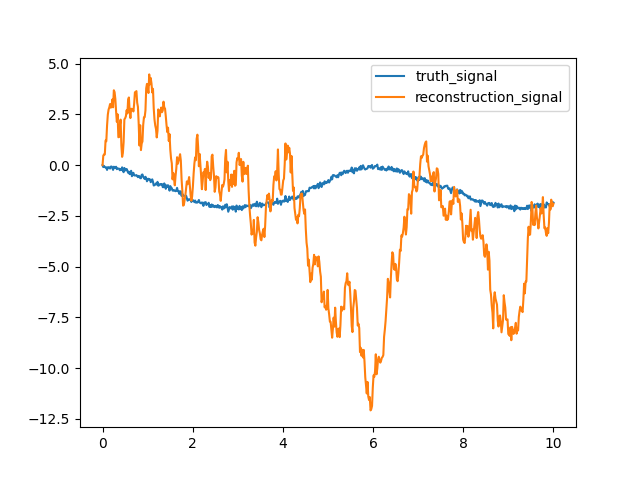
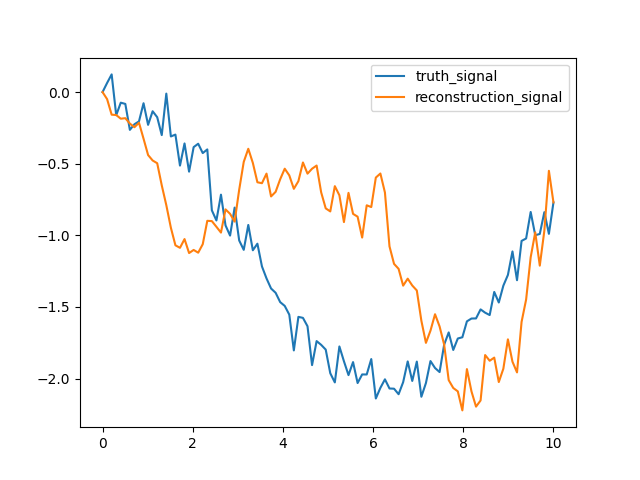
A_init added

diff --git a/Chapter5/GAN/gan_test_inv.py b/Chapter5/GAN/gan_test_inv.py
@@ -39,6 +39,7 @@ def test_inverse_GAN(size_ts, multichan, time_add=True):
     generator.load_state_dict(torch.load('models_saved/wgan_gp/cosine/G_model.pt'), strict=False)
     latent_space_samples = torch.randn((batch_size, input_dim))
     sign = generator(latent_space_samples) * std + mean
+    latent_space_samples = torch.randn((batch_size, input_dim))
 
     print(signature, sign)
 
@@ -49,7 +50,7 @@ def test_inverse_GAN(size_ts, multichan, time_add=True):
     size_base = len_base+1
 
     #Number of iteration for optimisation
-    limits = 20000
+    limits = 30000
     #Learning rate (there is a patience schedule)
     lrs = 1e-2
 
@@ -63,65 +64,68 @@ def test_inverse_GAN(size_ts, multichan, time_add=True):
     #Available base: "PwLinear", "BSpline", "Fourier"
     base_name = "PwLinear"
 
-    
-    SA = SeigalAlgo(size_ts, len_base, chan, real_chan, depth, n_recons, size_base, time_chan=True, sig_TS=sign[0].unsqueeze(0))
-    base = SA.define_base(base_name).flip([-2,-1])
-    # Retrieve A from depth 3 signature. "par" is deprecated for the moment. If cuda is available, compute automatically from cuda.
-    A = SA.retrieve_coeff_base(base, par = 1, limits = limits, lrs = lrs, opt = optim, params = params)
-    # Recompose signal from A
-    recomposed_signal = np.matmul(A.detach().numpy(),base[0].detach().numpy().T)
-    np.save('Inv_results/gan_A_cos.npy', recomposed_signal)
+    A_init = np.load('Inv_results/original_A_cos_1.npy')
+
+    #SA = SeigalAlgo(size_ts, len_base, chan, real_chan, depth, n_recons, size_base, time_chan=True, sig_TS=sign[0].unsqueeze(0))
+    #base = SA.define_base(base_name).flip([-2,-1])
+    ## Retrieve A from depth 3 signature. "par" is deprecated for the moment. If cuda is available, compute automatically from cuda.
+    #A = SA.retrieve_coeff_base(base, par = 1, limits = limits, lrs = lrs, opt = optim, params = params)
+    #torch.save(A, 'Inv_results/gan_A_cos_1.pt')
+    ## Recompose signal from A
+    #recomposed_signal = np.matmul(A.detach().numpy(),base[0].detach().numpy().T)
 
     SA = SeigalAlgo(size_ts, len_base, chan, real_chan, depth, n_recons, size_base, time_chan=True, sig_TS=signature)
     base = SA.define_base(base_name).flip([-2,-1])
     # Retrieve A from depth 3 signature. "par" is deprecated for the moment. If cuda is available, compute automatically from cuda.
     A_original = SA.retrieve_coeff_base(base, par = 1, limits = limits, lrs = lrs, opt = optim, params = params)
+    torch.save(A_original, 'Inv_results/original_A_cos.pt')
     # Recompose signal from A
     recomposed_signal_original = np.matmul(A_original.detach().numpy(),base[0].detach().numpy().T)
-    np.save('Inv_results/original_A_cos.npy', recomposed_signal_original)
+    
     #See the result
 
-    if not multichan:
-        if time_add:
-            i = 1
-        else:
-            i=0
-        x_axis = np.linspace(0,10,num = recomposed_signal_original.shape[1])
-        plt.plot(x_axis,traj-traj[0])
-        plt.plot(x_axis,np.flip(recomposed_signal_original[i+1,:]))
-        #plt.plot(x_axis,np.flip(recomposed_signal[i+1,:]))
-        plt.legend(['truth_signal','reconstruction_signal','GAN_recon_signal'])
-        plt.savefig("Inv_results/reconstruction_cos_pw.png")
-        plt.show()
-        print(np.mean(traj-traj[0]-recomposed_signal_original[i+1,:]))
-
-        plt.plot(x_axis,L)
-        plt.plot(x_axis,np.flip(recomposed_signal_original[1,:]))
-        plt.legend(['truth_length','reconstruction_length'])
-        plt.show()
-
-    else:
-        x_axis = np.linspace(0,1,num = recomposed_signal.shape[1])
-        signal = traj
-        for i in range(traj.shape[0]):
-            plt.plot(x_axis,signal[i])
-            plt.plot(x_axis,np.flip(recomposed_signal[2+i,:]))
-            plt.legend(['truth_signal','reconstruction_signal'])
-            plt.title(f"channel {i+1}")
-            plt.savefig("Inv_results/reconstruction_gan_cos_comp.png")
-            plt.show()
-
-        print(np.mean(traj-traj[:,0,None]-recomposed_signal[2:,:]))
-
-        plt.plot(L)
-        plt.plot(np.flip(recomposed_signal[1,:]))
-        plt.legend(['truth_length','reconstruction_length'])
-        plt.show()
-
-        plt.plot(times)
-        plt.plot(np.flip(recomposed_signal[0,:]))
-        plt.legend(['truth_times','reconstruction_times'])
-        plt.show()
-
+    #if not multichan:
+    #    if time_add:
+    #        i = 1
+    #    else:
+    #        i=0
+    #    x_axis = np.linspace(0,10,num = recomposed_signal.shape[1])
+    #    plt.plot(x_axis,traj-traj[0])
+    #    plt.plot(x_axis,np.flip(recomposed_signal[i+1,:]))
+    #    #plt.plot(x_axis,np.flip(recomposed_signal_original[i+1,:]))
+    #    plt.legend(['truth_signal','GAN_recon_signal','reconstruction_signal'])
+    #    plt.savefig("Inv_results/reconstruction_cos_pw1.png")
+    #    plt.show()
+    #    print(np.mean(traj-traj[0]-recomposed_signal[i+1,:]))
+#
+    #    plt.plot(x_axis,L)
+    #    plt.plot(x_axis,np.flip(recomposed_signal[1,:]))
+    #    #plt.plot(x_axis,np.flip(recomposed_signal_original[1,:]))
+    #    plt.legend(['truth_length','GAN_length','reconstruction_length'])
+    #    plt.show()
+#
+    #else:
+    #    x_axis = np.linspace(0,1,num = recomposed_signal.shape[1])
+    #    signal = traj
+    #    for i in range(traj.shape[0]):
+    #        plt.plot(x_axis,signal[i])
+    #        plt.plot(x_axis,np.flip(recomposed_signal[2+i,:]))
+    #        plt.legend(['truth_signal','reconstruction_signal'])
+    #        plt.title(f"channel {i+1}")
+    #        plt.savefig("Inv_results/reconstruction_gan_cos_comp.png")
+    #        plt.show()
+#
+    #    print(np.mean(traj-traj[:,0,None]-recomposed_signal[2:,:]))
+#
+    #    plt.plot(L)
+    #    plt.plot(np.flip(recomposed_signal[1,:]))
+    #    plt.legend(['truth_length','reconstruction_length'])
+    #    plt.show()
+#
+    #    plt.plot(times)
+    #    plt.plot(np.flip(recomposed_signal[0,:]))
+    #    plt.legend(['truth_times','reconstruction_times'])
+    #    plt.show()
+#
 if __name__=="__main__":
     test_inverse_GAN(size_ts, False, time_add=True)

diff --git a/Chapter5/GAN/Algo_Seigal_inverse_path2.py b/Chapter5/GAN/Algo_Seigal_inverse_path2.py
@@ -14,7 +14,7 @@ import skfda
 
 class SeigalAlgo:
     
-    def __init__(self, size_ts, len_base, chan, real_chan, depth, n_recons, size_base, time_chan = True, sig_TS = None, decal_length = 1):
+    def __init__(self, size_ts, len_base, chan, real_chan, depth, n_recons, size_base, time_chan = True, sig_TS = None, A_init = None, decal_length = 1):
         """initialize the inversion algorithm
 
         Args:
@@ -39,6 +39,7 @@ class SeigalAlgo:
         self.time_chan = time_chan
         self.decal_length = decal_length
         self.sig_TS = sig_TS
+        self.A_init = A_init
 
         
     def define_base(self, base_name, T_original = False, order = 3):
@@ -211,6 +212,7 @@ class SeigalAlgo:
             ### Objectif 0
             sig_control = torch.norm(signature_combine(sig_TS.float(),MMD_flat.float(),self.chan,self.depth,scalar_term = True).T[-d**3:])**2
             error = sig_control
+            #print(error)
 
             ### Contrainte de longueur
             if self.time_chan:
@@ -219,6 +221,7 @@ class SeigalAlgo:
                 i=0
             L_control = L_control_coeff* loss1(lengthA(A).float(),sig_TS[0,i].float()).float()
             error = error+L_control
+            #print(L_control)
 
             ### controle de bords:
             points = final_points(A,base.flip([-2,-1]).to(device))
@@ -226,15 +229,20 @@ class SeigalAlgo:
             val_to_move = ((points[-1]-points[0])**3)/6
             bord_control = bord_control_coeff*torch.norm(val_to_reach.float().to(device)-val_to_move.float().to(device))
             error = error+bord_control
+            #print(bord_control)
             
             ### Controle Levy Area
             LA_MMD = 0.5*(MMD[1]-MMD[1].T)
             LA = 0.5*(sig_TS_unf[1]-sig_TS_unf[1].T)
             LA_control = LA_control_coeff*torch.norm(LA-LA_MMD)**2
             error = error + LA_control+ridge_coeff*torch.norm(A)#sig_control.float()+L_control.float()+bord_control.float()
+            #print(ridge_coeff*torch.norm(A))
             return error
         
-        A = torch.randn([self.chan,self.len_base], requires_grad=True)
+        if self.A_init is not None:
+            A = self.A_init
+        else:
+            A = torch.randn([self.chan,self.len_base], requires_grad=True) 
 
         if opt == "AdamW":
                 optimizer = optim.AdamW([A], lr = lrs)
@@ -243,29 +251,33 @@ class SeigalAlgo:
         if opt == "LBFGS":
                 optimizer = optim.LBFGS([A], lr=lrs)
 
-        sched = torch.optim.lr_scheduler.ReduceLROnPlateau(optimizer,patience = 400)
-            #loss = nn.MSELoss()
-            #sigTS = sig_TS.view(self.chan, self.chan, self.chan)
-            #list_A = []
+        sched = torch.optim.lr_scheduler.ReduceLROnPlateau(optimizer,patience = 50, min_lr = 1e-7)
+        
         i = 0
         loss_ref = np.inf
         A_temp = np.zeros(shape = (1))
 
         par = 0.01
 
+        reset_lr = 1e-2
+
         while i<limits and loss_ref > eps:
             print(f'Step {i}')
             if opt != "LBFGS":
-              optimizer.zero_grad()
-              #MMD = model.forward(A)   
-              loss_val = error_func(A.type(dtype)).to(device)
-              loss_val.backward()
-              print(A.grad)
-              optimizer.step()
-              loss_value = loss_val.clone().detach()
-              sched.step(loss_value)
-              for param_group in optimizer.param_groups:
-                  print(param_group['lr'])
+                optimizer.zero_grad()
+                #MMD = model.forward(A)   
+                loss_val = error_func(A.type(dtype)).to(device)
+                loss_val.backward()
+                optimizer.step()
+                loss_value = loss_val.clone().detach()
+                sched.step(loss_value)
+                current_lr = optimizer.param_groups[0]['lr']
+                print(current_lr)
+                if current_lr <= 1.5e-6 and loss_value > 100:
+                    print(f"🔁 Resetting LR to {reset_lr}")
+                    for param_group in optimizer.param_groups:
+                        param_group['lr'] = reset_lr
+                    sched._num_bad_epochs = 0
             else:
                  def closure():
                      optimizer.zero_grad()
@@ -276,8 +288,7 @@ class SeigalAlgo:
                  optimizer.step(closure)
                  loss_value = closure().clone().detach()
                  sched.step(loss_value)
-                 for param_group in optimizer.param_groups:
-                     print(param_group['lr'])
+                 print(optimizer.param_groups[0]['lr'])
 
             if loss_value < loss_ref:
                   A_temp = A.clone()

diff --git a/Chapter5/GAN/test.py b/Chapter5/GAN/test.py
@@ -1,21 +1,43 @@
-import matplotlib.pyplot as plt
 import numpy as np
-from data_gen import create_cosine, create_TD
+import matplotlib.pylab as plt
+import torch
 
-size_ts = 600
+# Dummy model param
+model = torch.nn.Linear(1, 1)
+optimizer = torch.optim.AdamW(model.parameters(), lr=1e-2)
 
-recomposed_signal = np.load('Inv_results/original_A_1.npy')
-times,traj = create_cosine(size_ts)
-L, TS = create_TD(False, times, traj, time_add = True)
+# CosineAnnealingWarmRestarts scheduler
+scheduler = torch.optim.lr_scheduler.CosineAnnealingWarmRestarts(
+    optimizer, T_0=2000, T_mult=1, eta_min=1e-5
+)
 
-x_axis = np.linspace(0,10,num = recomposed_signal.shape[1])
-plt.plot(x_axis,traj-traj[0])
-plt.plot(x_axis,np.flip(recomposed_signal[2,:]))
-#plt.plot(x_axis,np.flip(recomposed_signal[i+1,:]))
-plt.legend(['truth_signal','reconstruction_signal','GAN_recon_signal'])
-plt.savefig("Inv_results/reconstruction_cos_pw.png")
+# Simuler les valeurs de LR à chaque step
+lr_values = []
+num_steps = 12000  # Total d'étapes à simuler
+
+for step in range(num_steps):
+    scheduler.step(step)
+    lr = optimizer.param_groups[0]['lr']
+    lr_values.append((step, lr))
+
+# Conversion en array pour affichage
+lr_values = np.array(lr_values)
+
+# Affichage
+plt.figure(figsize=(8, 4))
+plt.plot(lr_values[:, 0], lr_values[:, 1], label="LR (CosineWarmRestarts)")
+plt.xlabel("Step")
+plt.ylabel("Learning rate")
+plt.title("CosineAnnealingWarmRestarts")
+plt.grid(True)
+plt.xlim([0, num_steps])
+plt.ylim(bottom=0)
+plt.legend()
+plt.tight_layout()
 plt.show()
-plt.plot(x_axis,L)
-plt.plot(x_axis,np.flip(recomposed_signal[1,:]))
-plt.legend(['truth_length','reconstruction_length'])
+
+plt.hist(variable, bins=50)
+plt.title("Distribution de la variable")
+plt.xlabel("Valeur")
+plt.ylabel("Fréquence")
 plt.show()

diff --git a/Chapter5/GAN/gan_test.py b/Chapter5/GAN/gan_test.py
@@ -7,7 +7,7 @@ import iisignature
 
 # Define variables
 CUDA = False
-batch_size = 32
+batch_size = 64
 lr_G = 1e-4
 lr_D = 2e-4
 num_epochs = 500
@@ -33,6 +33,7 @@ sign_dim = iisignature.siglength(channel, 3)+1
 if __name__ == "__main__":
     train_data = create_training_data_gan(size_ts, nb_ch, distr_num)
     data = torch.stack(train_data)
+    torch.save(data, "models_saved/wgan_gp/cosine/training_data.pt")
     mean = data.mean(dim=0, keepdim=True) 
     std = data.std(dim=0, keepdim=True)
 
